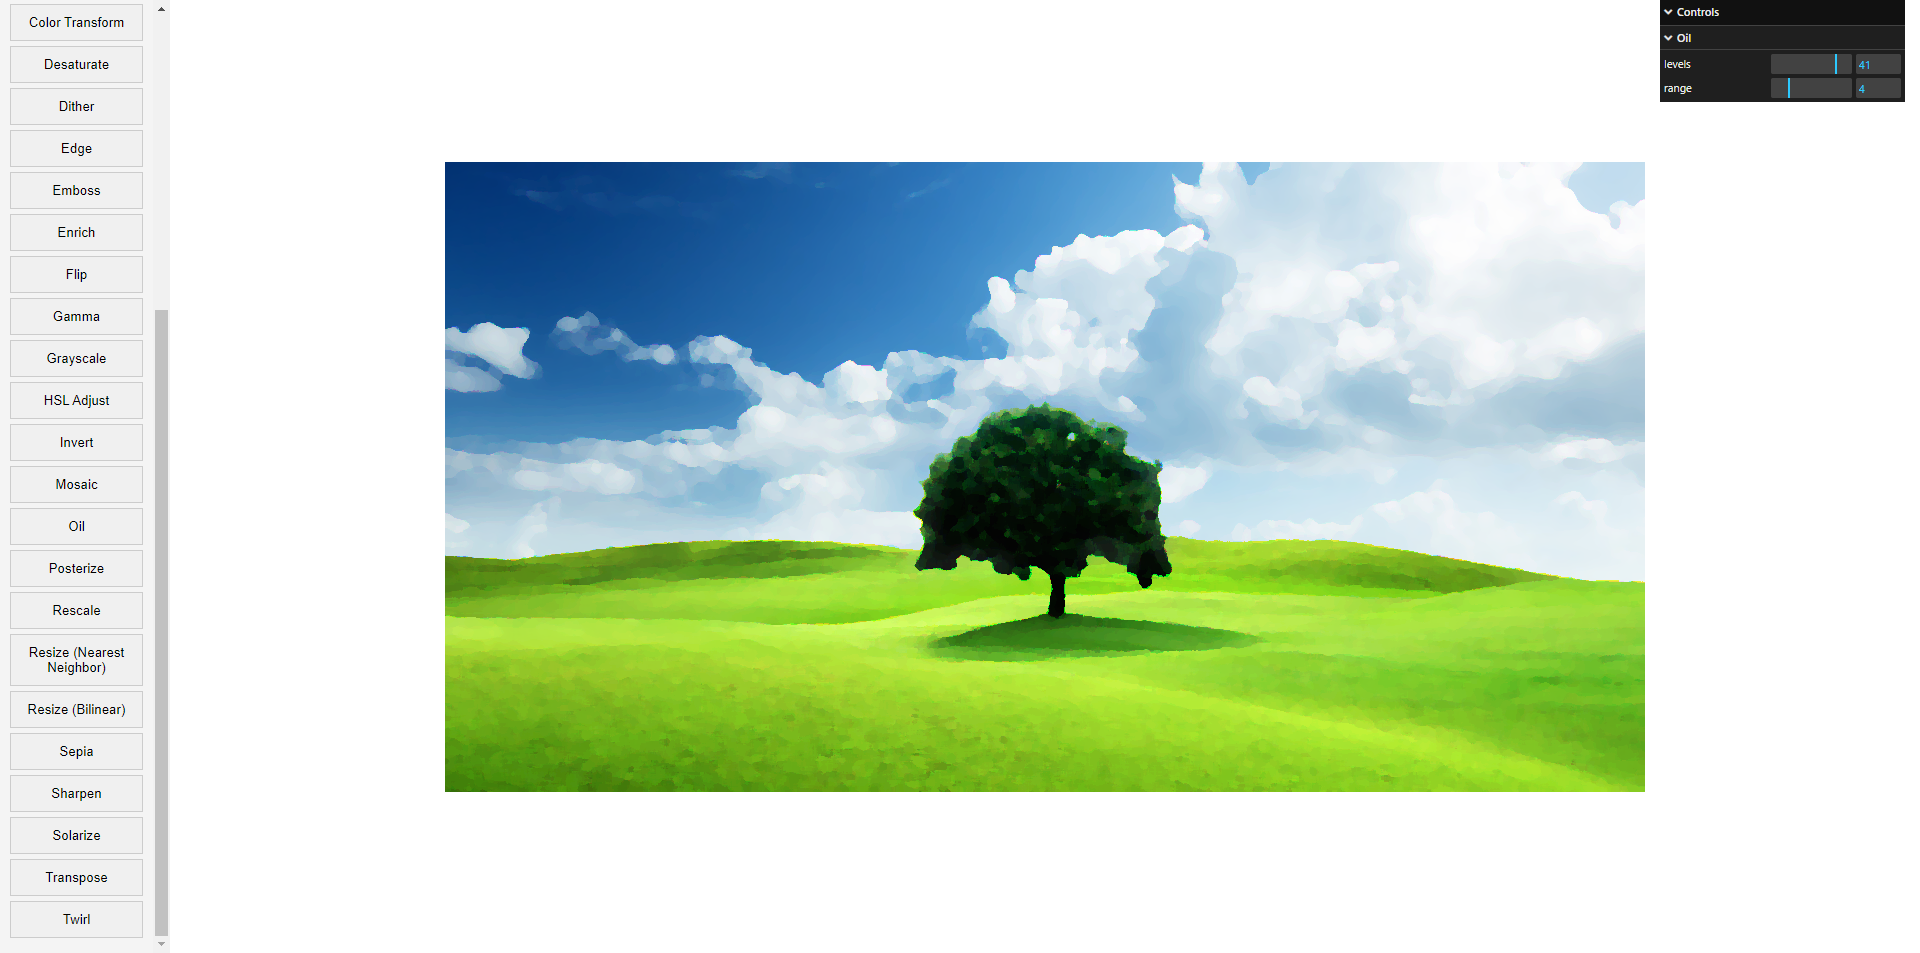
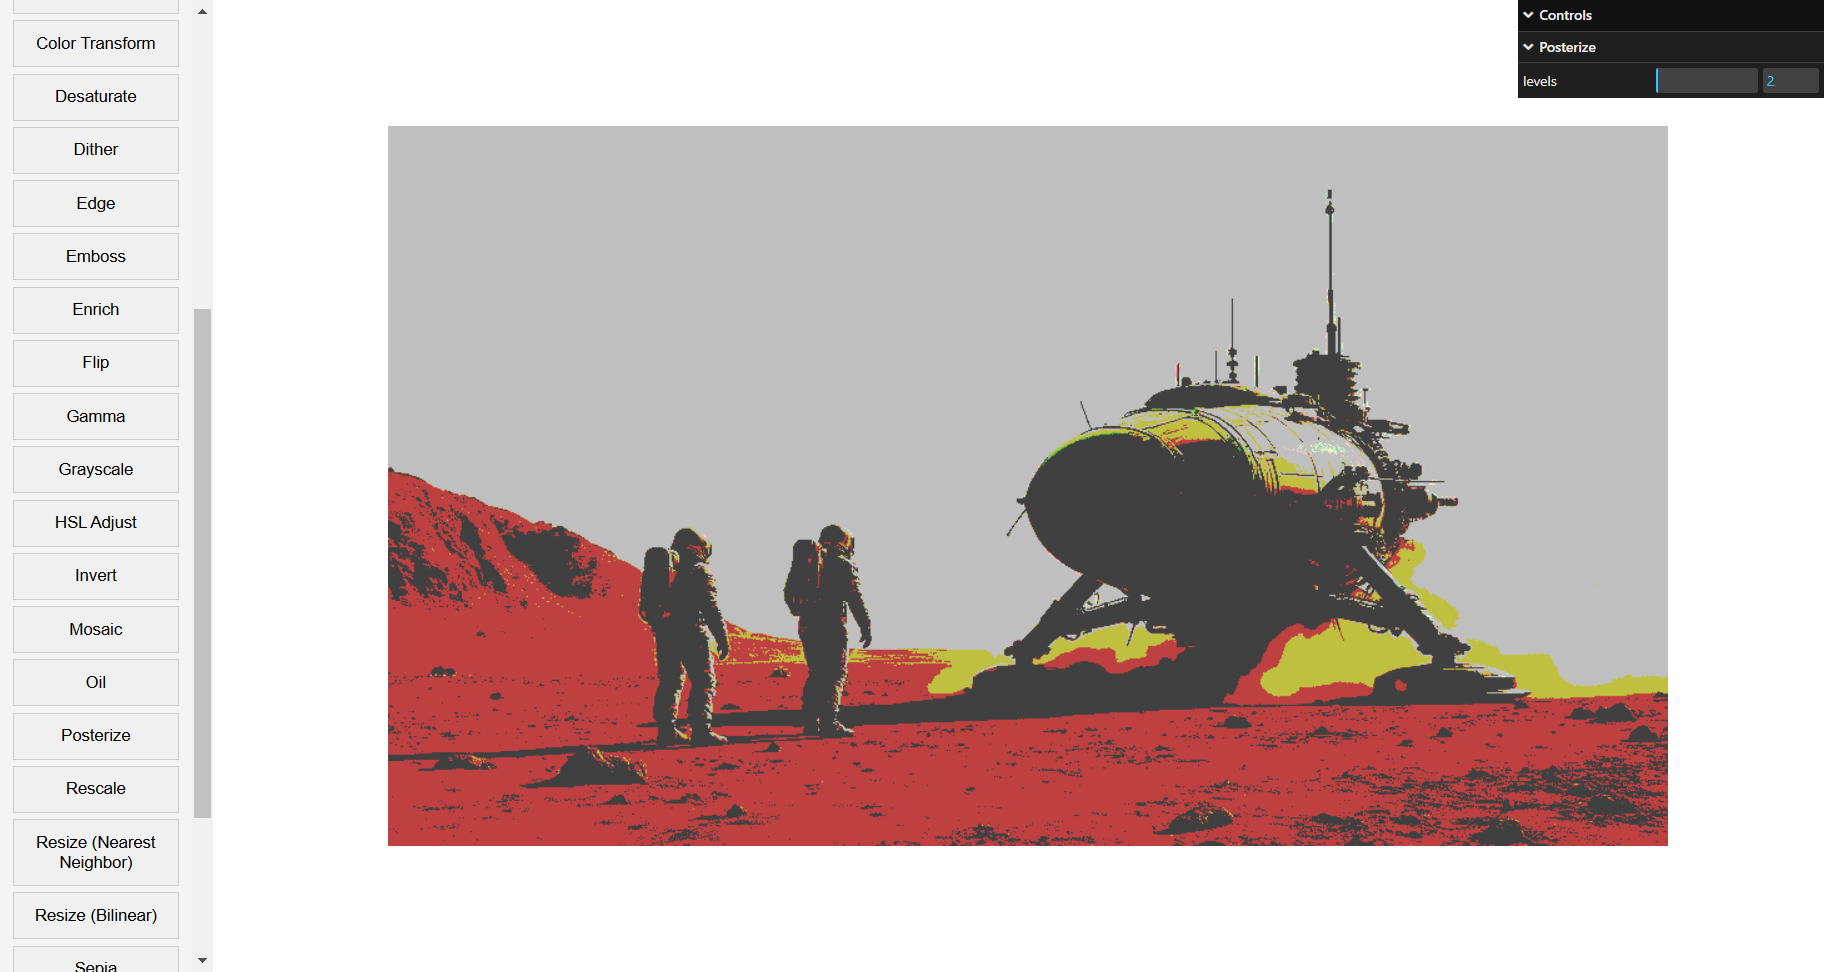
upd

diff --git a/examples/minwebgl/filters/src/main.rs b/examples/minwebgl/filters/src/main.rs
@@ -29,7 +29,7 @@ fn main()
 
 fn run() -> Result< (), gl::WebglError >
 {
-  let image_path = "static/image.png";
+  let image_path = "static/unnamed.png";
   let gl = gl::context::retrieve_or_make().expect( "Can't retrieve GL context" );
   let filter_renderer = Renderer::new( &gl, None );
   let filter_renderer = Rc::new( RefCell::new( filter_renderer ) );

diff --git a/examples/minwebgl/filters/readme.md b/examples/minwebgl/filters/readme.md
@@ -1,0 +1,31 @@
+## Interactive filters
+
+This example demonstrates work of different image filters implemented in WebGl2.
+
+### How it is useful
+
+This demo shows how to implement different filters alongside different techniques such as
+kernel convolutoin and two-pass rendering in WebGl2.
+
+### How to run
+
+Make sure you have installed all the necessary [dependencies](../../../module/min/minwebgl/readme.md)
+In order to run the example navigate to example's directory and run next command:
+
+``` bash
+trunk serve
+```
+
+If you want to load your own image, upload it into `resources` folder
+and then provide its path into `image_path` variable.
+
+``` rust
+let image_path = "static/your_image.format";
+```
+
+You can select filter in the list on the left side and adjust its parameters in the small
+window in the top right corner if they are present.
+
+---
+
+![](showcase.png)
